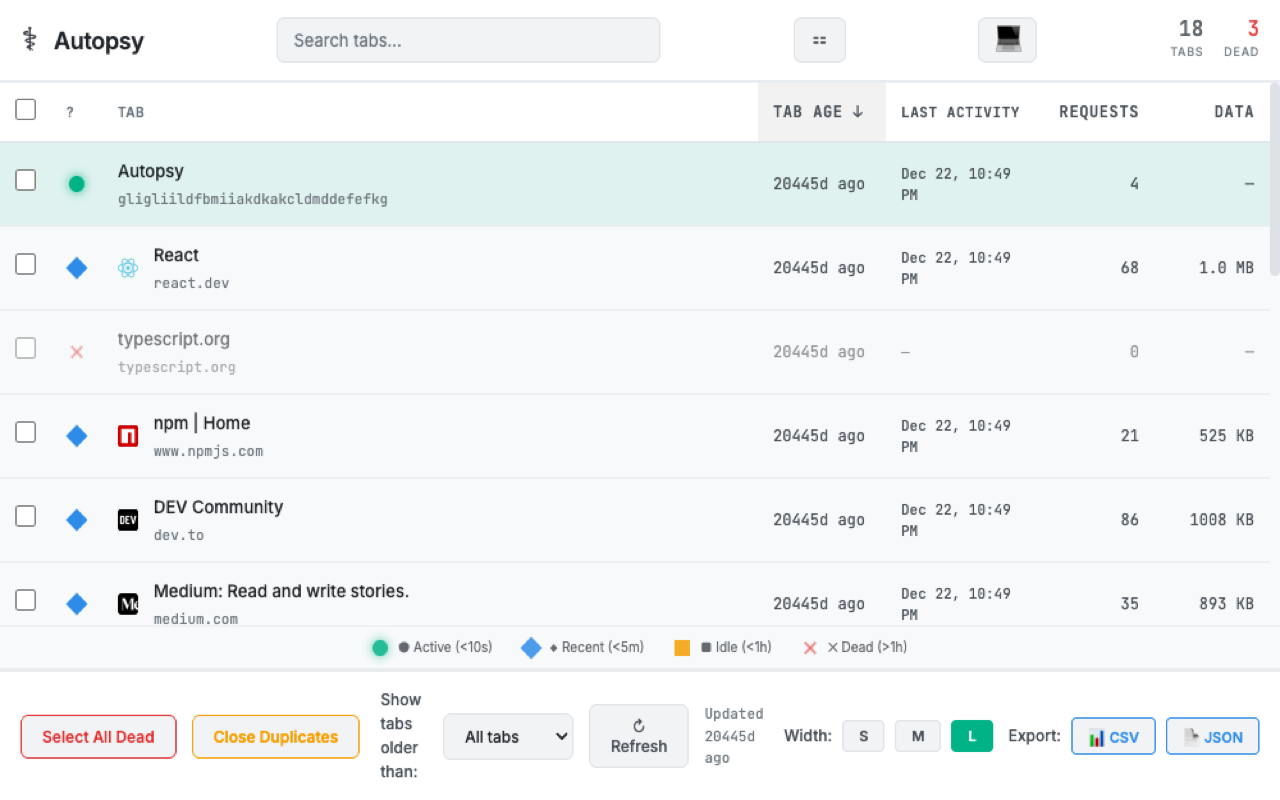
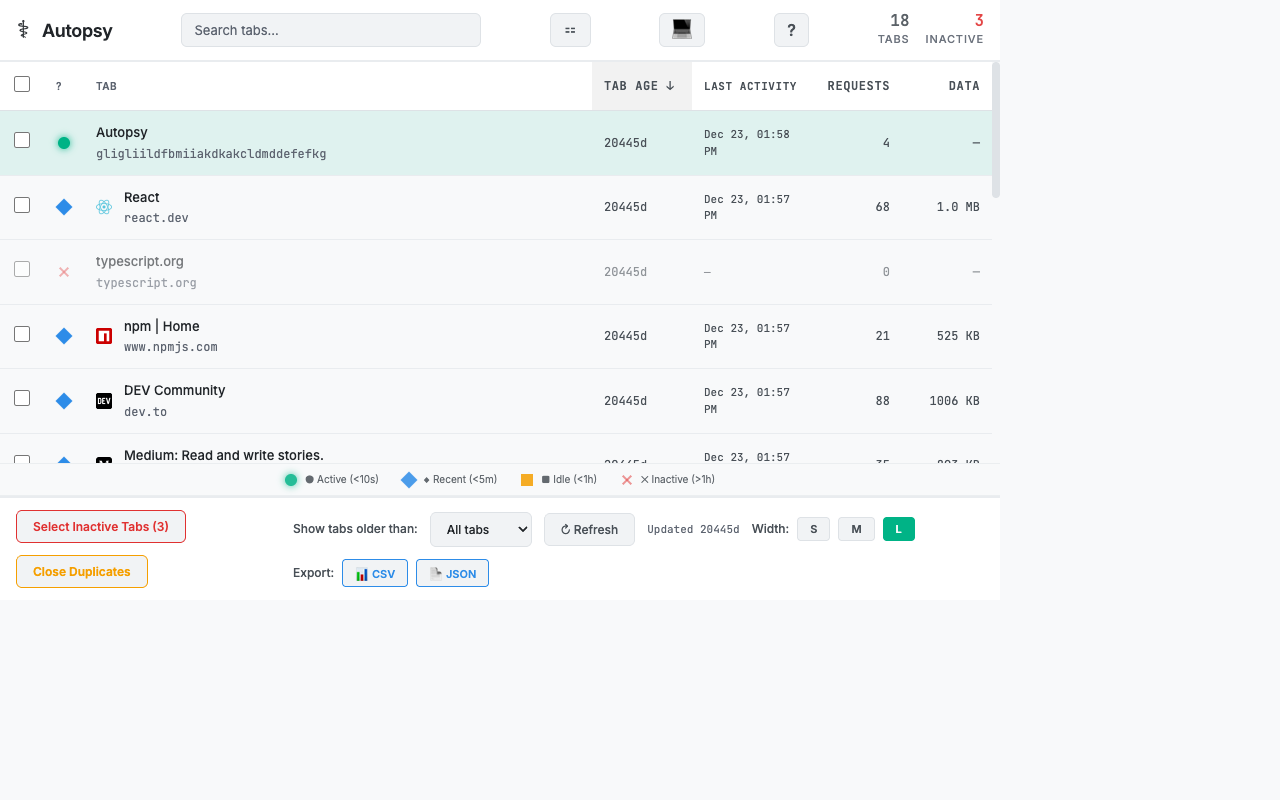
fix: UI layout and tab age improvements for v0.21.0
UI Fixes:
- Add flex-wrap to footer-right to prevent export buttons from overflowing
- JSON button now stays within viewport bounds

Tab Age Improvements:
- Remove redundant "ago" suffix (column header already says "TAB AGE")
- Change format: "20445d ago" → "20445d", "2h ago" → "2h", etc.
- Initialize tab age to "now" when Autopsy first sees a tab
- Only match recent instances (within 5 minutes) to avoid historical ages
- Removed URL first-seen fallback to prevent showing decades-old ages

Tab age now represents time since Autopsy first tracked the tab, not
Chrome's historical data. This provides more useful and accurate age
tracking for tab management.

Updated screenshots reflect these changes.

diff --git a/src/background/worker.ts b/src/background/worker.ts
@@ -66,7 +66,7 @@ const initializeTabAges = async () => {
     if (!tab.id || !tab.url) continue;
 
     const fingerprint = createFingerprint(tab.url, tab.windowId, tab.index);
-    let tabAge = now;
+    let tabAge = now; // Default to now - tab age starts when Autopsy first sees it
 
     // Try to find matching instance by fingerprint
     const instanceKey = `instance_${fingerprint}`;
@@ -80,14 +80,21 @@ const initializeTabAges = async () => {
       });
     } else {
       // Try to find similar instance (same URL, different position)
+      // Only match instances that were recently seen (within last 5 minutes)
       let bestMatch: TabInstance | null = null;
       let bestMatchAge = now;
+      const fiveMinutesAgo = now - 5 * 60 * 1000;
 
       for (const key in storage) {
         if (key.startsWith('instance_') && key.includes(tab.url)) {
           const instance = storage[key] as TabInstance;
-          if (instance.url === tab.url && instance.windowId === tab.windowId) {
-            // Found a tab with same URL in same window - likely repositioned
+          // Only match recent instances to avoid using very old historical data
+          if (
+            instance.url === tab.url &&
+            instance.windowId === tab.windowId &&
+            instance.lastSeen > fiveMinutesAgo
+          ) {
+            // Found a tab with same URL in same window that was recently active
             if (instance.created < bestMatchAge) {
               bestMatch = instance;
               bestMatchAge = instance.created;
@@ -98,13 +105,8 @@ const initializeTabAges = async () => {
 
       if (bestMatch) {
         tabAge = bestMatch.created;
-      } else {
-        // Fall back to URL first-seen
-        const urlKey = `url_${tab.url}_first_seen`;
-        if (storage[urlKey]) {
-          tabAge = storage[urlKey];
-        }
       }
+      // Note: Removed URL first-seen fallback to avoid very old historical ages
 
       // Create new instance for this tab
       chrome.storage.local.set({

diff --git a/src/popup.tsx b/src/popup.tsx
@@ -398,10 +398,10 @@ export function App() {
     const hours = Math.floor(minutes / 60);
     const days = Math.floor(hours / 24);
 
-    if (days > 0) return `${days}d ago`;
-    if (hours > 0) return `${hours}h ago`;
-    if (minutes > 0) return `${minutes}m ago`;
-    return 'Just now';
+    if (days > 0) return `${days}d`;
+    if (hours > 0) return `${hours}h`;
+    if (minutes > 0) return `${minutes}m`;
+    return '<1m';
   };
 
   const formatTimestamp = (timestamp: number | null): string => {

diff --git a/src/popup.css b/src/popup.css
@@ -691,6 +691,7 @@ td {
   display: flex;
   align-items: center;
   gap: var(--spacing-md);
+  flex-wrap: wrap;
 }
 
 .filter-controls {
